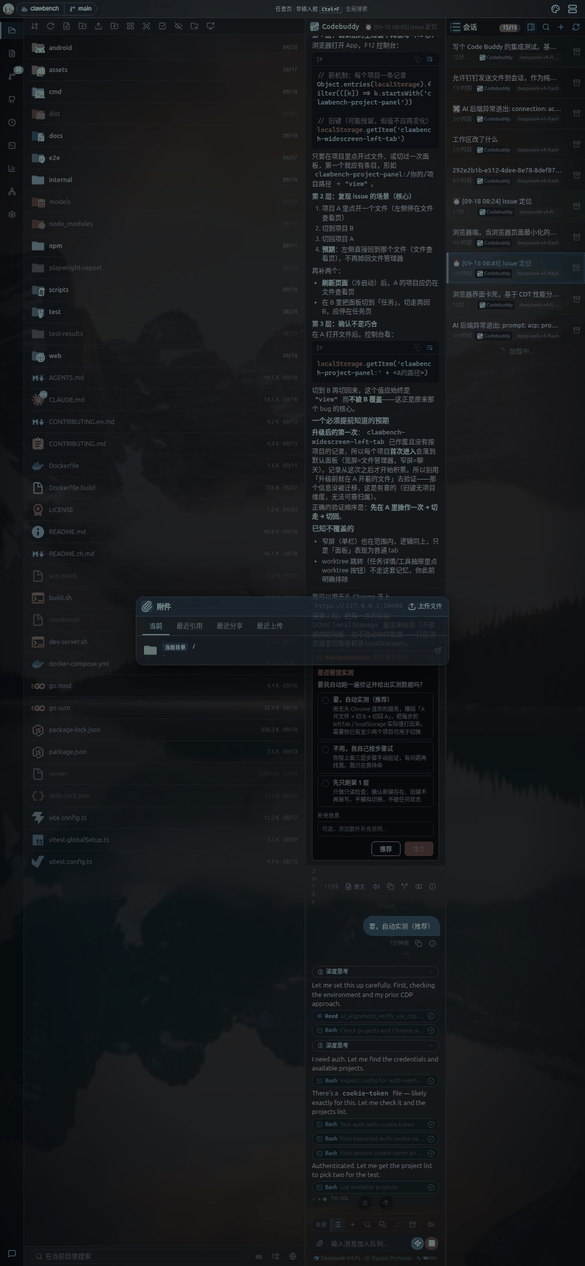
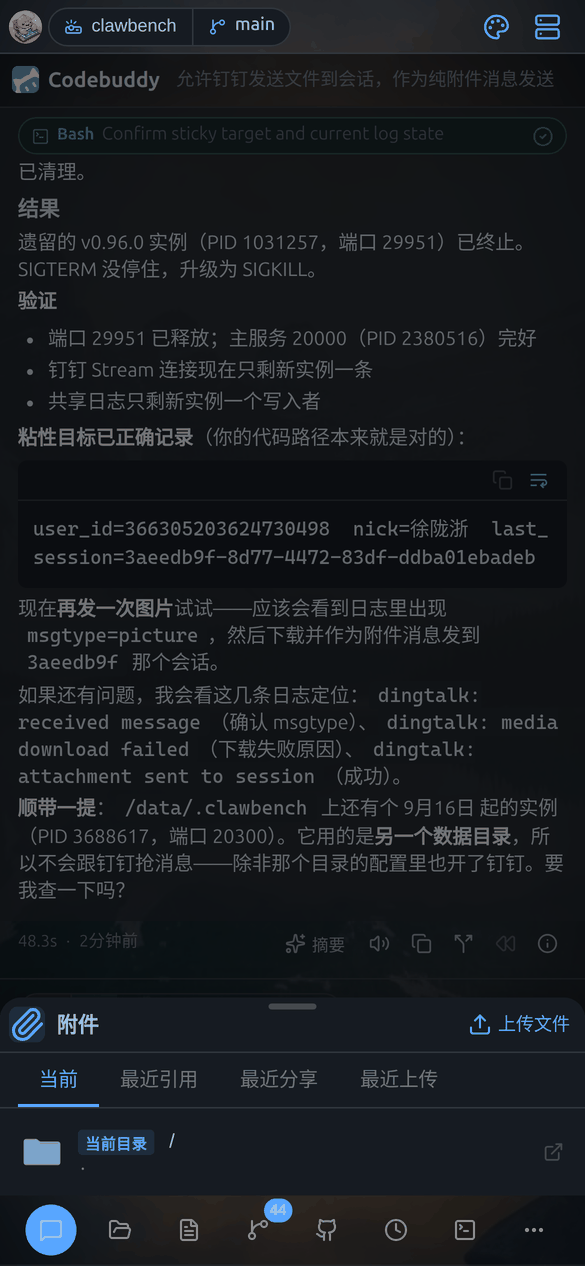
fix(mobile-docs): 用 Playwright 原生移动 context 重截全部 17 张
用户指出：截图元素异常小、底部导航栏不可见，不像手机端。
复核属实——根因是模拟方法根本性错误。

根因：v1 用 setViewportSize + CDP setDeviceMetricsOverride，只改了「度量」，
isMobile 仍是 false、maxTouchPoints 仍是 0。页面的移动端媒体查询
(@media (hover:none) / pointer:coarse) 与触摸语义全未生效，
渲染出的仍是桌面布局被压进竖屏。

A/B 实测（同页面、同 390x844）：
  setViewportSize + CDP  → isMobile:false  底部导航栏不可见  元素异常小
  newContext({isMobile:true, hasTouch:true}) → isMobile:true  可见  正常

修正：改用 Playwright 原生移动 context（DevTools 设备模式的等价物）
- browser.newContext({ viewport:390x844, deviceScaleFactor:3,
    isMobile:true, hasTouch:true, userAgent, storageState })
- 登录态用 storageState 复用（先导出一次，后续 context 直接载入）
- App 模式 stub 用 ctx.addInitScript，context 用完 close() 天然无泄漏
- 断言补 isMobile / dockH(48) / dockBtn(34)；去掉失效的 screenW

重截后 DOM 实测（全部达标）：
isMobile=true innerW=390 bodyW=390 wideScreen=false bottomDock=true
dockH=48（5.7% 屏高，iOS TabBar 标准 49px）dockBtn=34
原始截图 1170x2532，输出 585x1266

17 张全部重截：585x1266、唯一无重复、引用 17↔17 平衡。

skill §二十一/二十五同步改写：
- 方案章节换成原生 context 写法，附 A/B 对照表
- 「最致命的坑」改为 isMobile=false（v1 的输出尺寸坑降为第二个）
- 顺序问题章节替换为「三个必须注意的细节」（UA/storageState/stub 生命周期）
- 判据表补 isMobile（最关键）、去掉 screenW，列两个反例特征

diff --git a/docs/Skills/clawbench-user-guide/SKILL.md b/docs/Skills/clawbench-user-guide/SKILL.md
@@ -560,83 +560,102 @@ export function computeIsWideScreen(cssWidth, screenWidth, screenHeight, dpr) {
 
 实测：`documentElement.style.zoom = '3'` 之后 `window.innerWidth` **仍是 1170**（≥1024）→ 布局依然判宽屏（`wideScreen:true, bottomDock:false`）。zoom 只改变渲染尺寸，不改变 CSS 视口。
 
-### 正确方案：窗口尺寸 = 设备像素，CDP = CSS 视口 + DPR
+### 正确方案：Playwright 原生移动端 context（`isMobile: true`）
+
+**唯一正确的方法**——这是 DevTools「设备模式」的等价物：
 
 ```js
-// ① 窗口设成「设备像素」尺寸（390×3=1170, 844×3=2532）。
-//    这一步决定了 page.screenshot() 的输出尺寸。
-await page.setViewportSize({ width: 1170, height: 2532 });
-
-// ② CDP 把 CSS 视口压回 390×844，并声明 DPR=3。
-const cdp = await page.context().newCDPSession(page);
-await cdp.send('Emulation.setDeviceMetricsOverride', {
-  width: 390, height: 844, deviceScaleFactor: 3, mobile: true,
-  screenWidth: 390, screenHeight: 844,                     // 必须给，见下
-  screenOrientation: { type: 'portraitPrimary', angle: 0 },
+const ctx = await browser.newContext({
+  viewport: { width: 390, height: 844 },
+  deviceScaleFactor: 3,
+  isMobile: true,          // ← 关键：启用移动端语义
+  hasTouch: true,          // ← 关键：触摸事件
+  userAgent: ANDROID_UA,
+  storageState: '/tmp/uidesc/mobile-state.json',   // 复用登录态
 });
-await cdp.send('Emulation.setTouchEmulationEnabled', { enabled: true, maxTouchPoints: 5 });
-await cdp.send('Emulation.setUserAgentOverride', { userAgent: ANDROID_UA });
+const p = await ctx.newPage();
+await p.goto(URL, { waitUntil: 'load' });
+await p.screenshot({ path: '/tmp/uidesc/_raw_m2.png' });   // → 1170×2532
 ```
 
-实测：`innerWidth:390, dpr:3, bodyW:390, screenW:390, wideScreen:false, bottomDock:true`，
+实测：`innerWidth:390, bodyW:390, dpr:3, isMobile:true(maxTouchPoints>0)`，
 `page.screenshot()` 输出 **1170×2532**。
 
 | 项 | 值 |
 |---|---|
 | CSS 视口 | **390 × 844**（iPhone 14 逻辑尺寸） |
 | DPR | **3** |
-| 窗口 / 截图原生尺寸 | **1170 × 2532**（= CSS × DPR） |
+| 截图原生尺寸 | **1170 × 2532** |
 | 后处理 | LANCZOS 降到 **585 × 1266**（原生的一半） |
 | 单图体积 | 约 140–290 KB（量化后） |
 
-### ⚠ 最严重的坑：截图输出尺寸没被断言，导致整批返工
+> 登录态复用：先用已有会话 `page.context().storageState({ path })` 导出，
+> 新 context 用 `storageState` 载入，省去每次登录。
 
-**症状**：图的比例是竖屏，DOM 断言也全对（`innerWidth:390, wideScreen:false`），
-但**肉眼一看元素明显偏大**——一屏只能装 10 来个条目，Dock 图标大得离谱。
+### ⚠ 最致命的坑：CDP 覆盖 ≠ 移动端（`isMobile` 仍是 false）
 
-**根因**：`page.screenshot()` 截的是**浏览器窗口**，不是 CDP 声明的 CSS 视口。
+**症状**：比例是竖屏、`innerWidth` 也对，但**元素异常小、底部导航栏不可见**，
+整体像「桌面端界面被压进竖屏」——用户一眼看出不对。
 
-- 窗口若还是 1280×720（上一轮遗留），CDP 只改了「度量」，
-  **布局按 390 算、却被拉伸填满 1280 宽的画布** → 所有元素等比放大 3.3 倍。
-- 我当时只断言了 `innerWidth`，没断言**输出尺寸**，所以自检全绿、图全废。
+**根因**：用 `setViewportSize` + CDP `Emulation.setDeviceMetricsOverride` 只改了
+「度量」，**`isMobile` 仍是 false、`maxTouchPoints` 仍是 0**。
+页面的移动端媒体查询（`@media (hover: none)` / `pointer: coarse`）和触摸语义
+**全都没生效**，渲染出的仍是桌面布局。
 
-**正确姿势**：窗口尺寸与 CDP 的 CSS 视口 × DPR **必须一致**，
-并且**在后处理阶段硬断言原始截图尺寸**：
+**A/B 实测对照**（同一页面、同样 390×844）：
+
+| 方法 | `isMobile` | 底部导航栏 | 元素比例 |
+|---|---|---|---|
+| `setViewportSize` + CDP override | **false** | **不可见** | 异常小 |
+| `browser.newContext({ isMobile:true, hasTouch:true })` | **true** | 可见 | 正常 |
+
+**判据速记**：`innerWidth` 对 ≠ 移动端。**必须断言 `navigator.maxTouchPoints > 0`。**
+
+### ⚠ 第二个坑：截图输出尺寸没被断言
+
+`page.screenshot()` 截的是**视口**，若窗口尺寸与设备像素不一致，
+布局按 390 算、却被拉伸填满更宽的画布 → 元素等比放大。
+**后处理阶段必须硬断言原始截图尺寸**：
 
 ```python
-raw_im = Image.open('/tmp/uidesc/_raw_m.png')
-EXPECT_RAW = (1170, 2532)          # = CSS 390×844 × DPR 3
-if raw_im.size != EXPECT_RAW:
-    print(f"ERROR: raw {raw_im.size} != {EXPECT_RAW} "
-          f"(CDP device emulation did not take over the viewport)", file=sys.stderr)
-    bad = True                      # 打 [NEEDS REVIEW]，绝不静默交付
+raw_im = Image.open('/tmp/uidesc/_raw_m2.png')
+EXPECT = (1170, 2532)          # = CSS 390×844 × DPR 3
+if raw_im.size != EXPECT:
+    print(f"ERROR: raw {raw_im.size} != {EXPECT}", file=sys.stderr)
+    bad = True                  # 打 [NEEDS REVIEW]，绝不静默交付
 ```
 
-**判据速记**：`innerWidth` 对 ≠ 图对。**必须同时断言原始输出像素尺寸。**
+### 三个必须注意的细节
 
-### 四个必须注意的顺序问题（都实测踩过）
-
-1. **`setViewportSize` 必须在 `setDeviceMetricsOverride` 之前**。反了的话 viewport 会覆盖 CDP 的 CSS 视口，`innerWidth` 变回 1170。
-2. **`reload` 会重置 CDP override**。若 setup 需要 reload，必须在 reload **之后**重新应用 CDP。实测踩过：reload 前应用 → `innerWidth:1170`。
-3. **`screenWidth` / `screenHeight` 必须给**。DevTools 设备模式也设这两个；缺了会让 `screen.width` 停留在旧窗口宽度，影响 `computeIsWideScreen` 里依赖 `screen.width > screen.height` 的横竖屏判据。
-4. **UA 必须覆盖**。不覆盖则 `isPC` 仍为 true（`usePlatformDetect.ts:55` 的 `isPC = !isAppMode && !AndroidUA && !iOSUA && !iPadOSUA`），文件管理器单击行为、终端音量键等移动端分支不会生效。
+1. **UA 必须覆盖**。不覆盖则 `isPC` 仍为 true（`usePlatformDetect.ts:55` 的
+   `isPC = !isAppMode && !AndroidUA && !iOSUA && !iPadOSUA`），
+   文件管理器单击行为、终端音量键等移动端分支不会生效。
+2. **登录态用 `storageState` 复用**。先用已有会话导出
+   `page.context().storageState({ path })`，新 context 传 `storageState` 载入。
+   否则每个 context 都要重登，慢且易失败。
+3. **App 模式 stub 用 `ctx.addInitScript`**。注入 `window.ClawBenchNative` 后
+   `useAppMode` 会置 `<html data-app-mode>`、渲染 appOnly 卡片。
+   **context 用完即 `close()`，天然无泄漏**——这比 v1 的 `page.addInitScript` + `dispose()`
+   干净（v1 曾因忘记 dispose 污染后续所有 web 截图）。
 
 ### 移动端构图是否正确的客观判据（DOM 实测，别靠肉眼/视觉模型）
 
-跑一次 `capm.sh` 断言这几个值，**全部落在区间内才算对**：
+跑一次 `capm2.sh` 断言这几个值，**全部落在区间内才算对**：
 
 | 指标 | 正确值 | 说明 |
 |---|---|---|
+| **`isMobile`** | **true**（`maxTouchPoints > 0`） | **最关键**；false 说明没用原生移动 context |
 | `innerWidth` | **390** | CSS 视口宽 |
 | `bodyW` | **390** | body 布局宽度，>390 说明被拉伸 |
-| `screenW` | **390** | 与 `screenWidth` 一致 |
-| `--dock-height` | `calc(47px + 0px)` | Dock 的 CSS 高度定义 |
+| `wideScreen` | **false** | 必须是窄屏布局 |
+| `bottomDock` | **true** | 底部 Dock 可见 |
 | `.bottom-dock-wrapper` 高度 | **48px ≈ 5.7% 屏高** | iOS TabBar 标准 49px，吻合 |
-| `.bottom-dock .dock-btn` | **34×34** | 触摸目标尺寸正常 |
-| 根字号 | **15px** | 项目基准 |
+| `.bottom-dock .dock-btn` | **34px** | 触摸目标尺寸正常 |
+| 原始截图尺寸 | **1170 × 2532** | = CSS × DPR |
 
-> **反例**：布局按 1170 算时，Dock 高度会变成 `47 × (1170/390) ≈ 141px`（占屏高 17%），
-> 这就是「元素明显放大」的量化特征。**发现这个数字偏离，就是 CDP 没接管视口。**
+> **两个反例特征**：
+> 1. `isMobile:false` → 元素异常小、底部 Dock 不可见（桌面布局被压进竖屏）。
+> 2. 原始尺寸 ≠ 1170×2532 → 布局被拉伸，元素等比放大。
 
 > **注意**：视觉模型（mmx）在判断「像不像手机 App」时**频繁幻觉**——实测反复把单栏读成「三栏布局」、
 > 把 8 个 Dock 图标说成「3 个」、把文件管理器说成「会话列表」。**构图正确性一律以 DOM 实测为准**，
@@ -657,13 +676,13 @@ if os.path.getsize(out) > 300*1024 and uniq < 60000:   # UI 截图
 
 实测：`uniq≈22000–35000`（UI）会量化；`uniq≈48701`（含照片）跳过。
 
-### 工具：`/tmp/uidesc/capm.sh`
+### 工具：`/tmp/uidesc/capm2.sh`
 
 ```
 ./capm.sh <输出名> [setup] [等待ms] [模式=web|app] [设备=phone|phone-l|tablet]
 ```
 
-沿用 cap3.sh 的「单次 run-code + 内置重试 + 产出侧 `[NEEDS REVIEW]` 防线」，第 0 步替换为上述 CDP 调用。`recapm.sh` 提供 `dock` / `setcat` 两个批次函数。
+沿用 cap3.sh 的「内置重试 + 产出侧 `[NEEDS REVIEW]` 防线」，核心是 `browser.newContext({ isMobile:true, hasTouch:true, deviceScaleFactor:3 })`。`recapm2.sh` 提供批量重截驱动。
 
 ---
 
@@ -787,20 +806,22 @@ const stub = await page.addInitScript({ content: `
 
 ## 二十五、移动端验收判据
 
-### 每张图必须断言（capm.sh 已内置）
+### 每张图必须断言（capm2.sh 已内置）
 
 **运行期断言（DOM）**：
 
 ```js
 {
-  innerW: 390,           // CDP 生效；≠390 说明 override 被覆盖
-  bodyW: 390,            // body 布局宽；>390 说明布局被拉伸（最易漏的一条）
-  screenW: 390,          // 与 CDP screenWidth 一致
+  isMobile: true,        // maxTouchPoints>0；false 说明没用原生移动 context（最关键）
+  innerW: 390,           // CSS 视口宽
+  bodyW: 390,            // body 布局宽；>390 说明布局被拉伸
   wideScreen: false,     // 必须是移动端布局
   bottomDock: true,      // 底部 Dock 可见
   wideDock: false,       // 宽屏左侧 dock 不可见
   appMode: <按需>,        // app 模式应为 true
   card: false,           // 无完成通知卡片
+  dockH: 48,             // Dock 高度；≈141 说明布局按 1170 算（异常）
+  dockBtn: 34,           // Dock 按钮高度
 }
 ```
 
